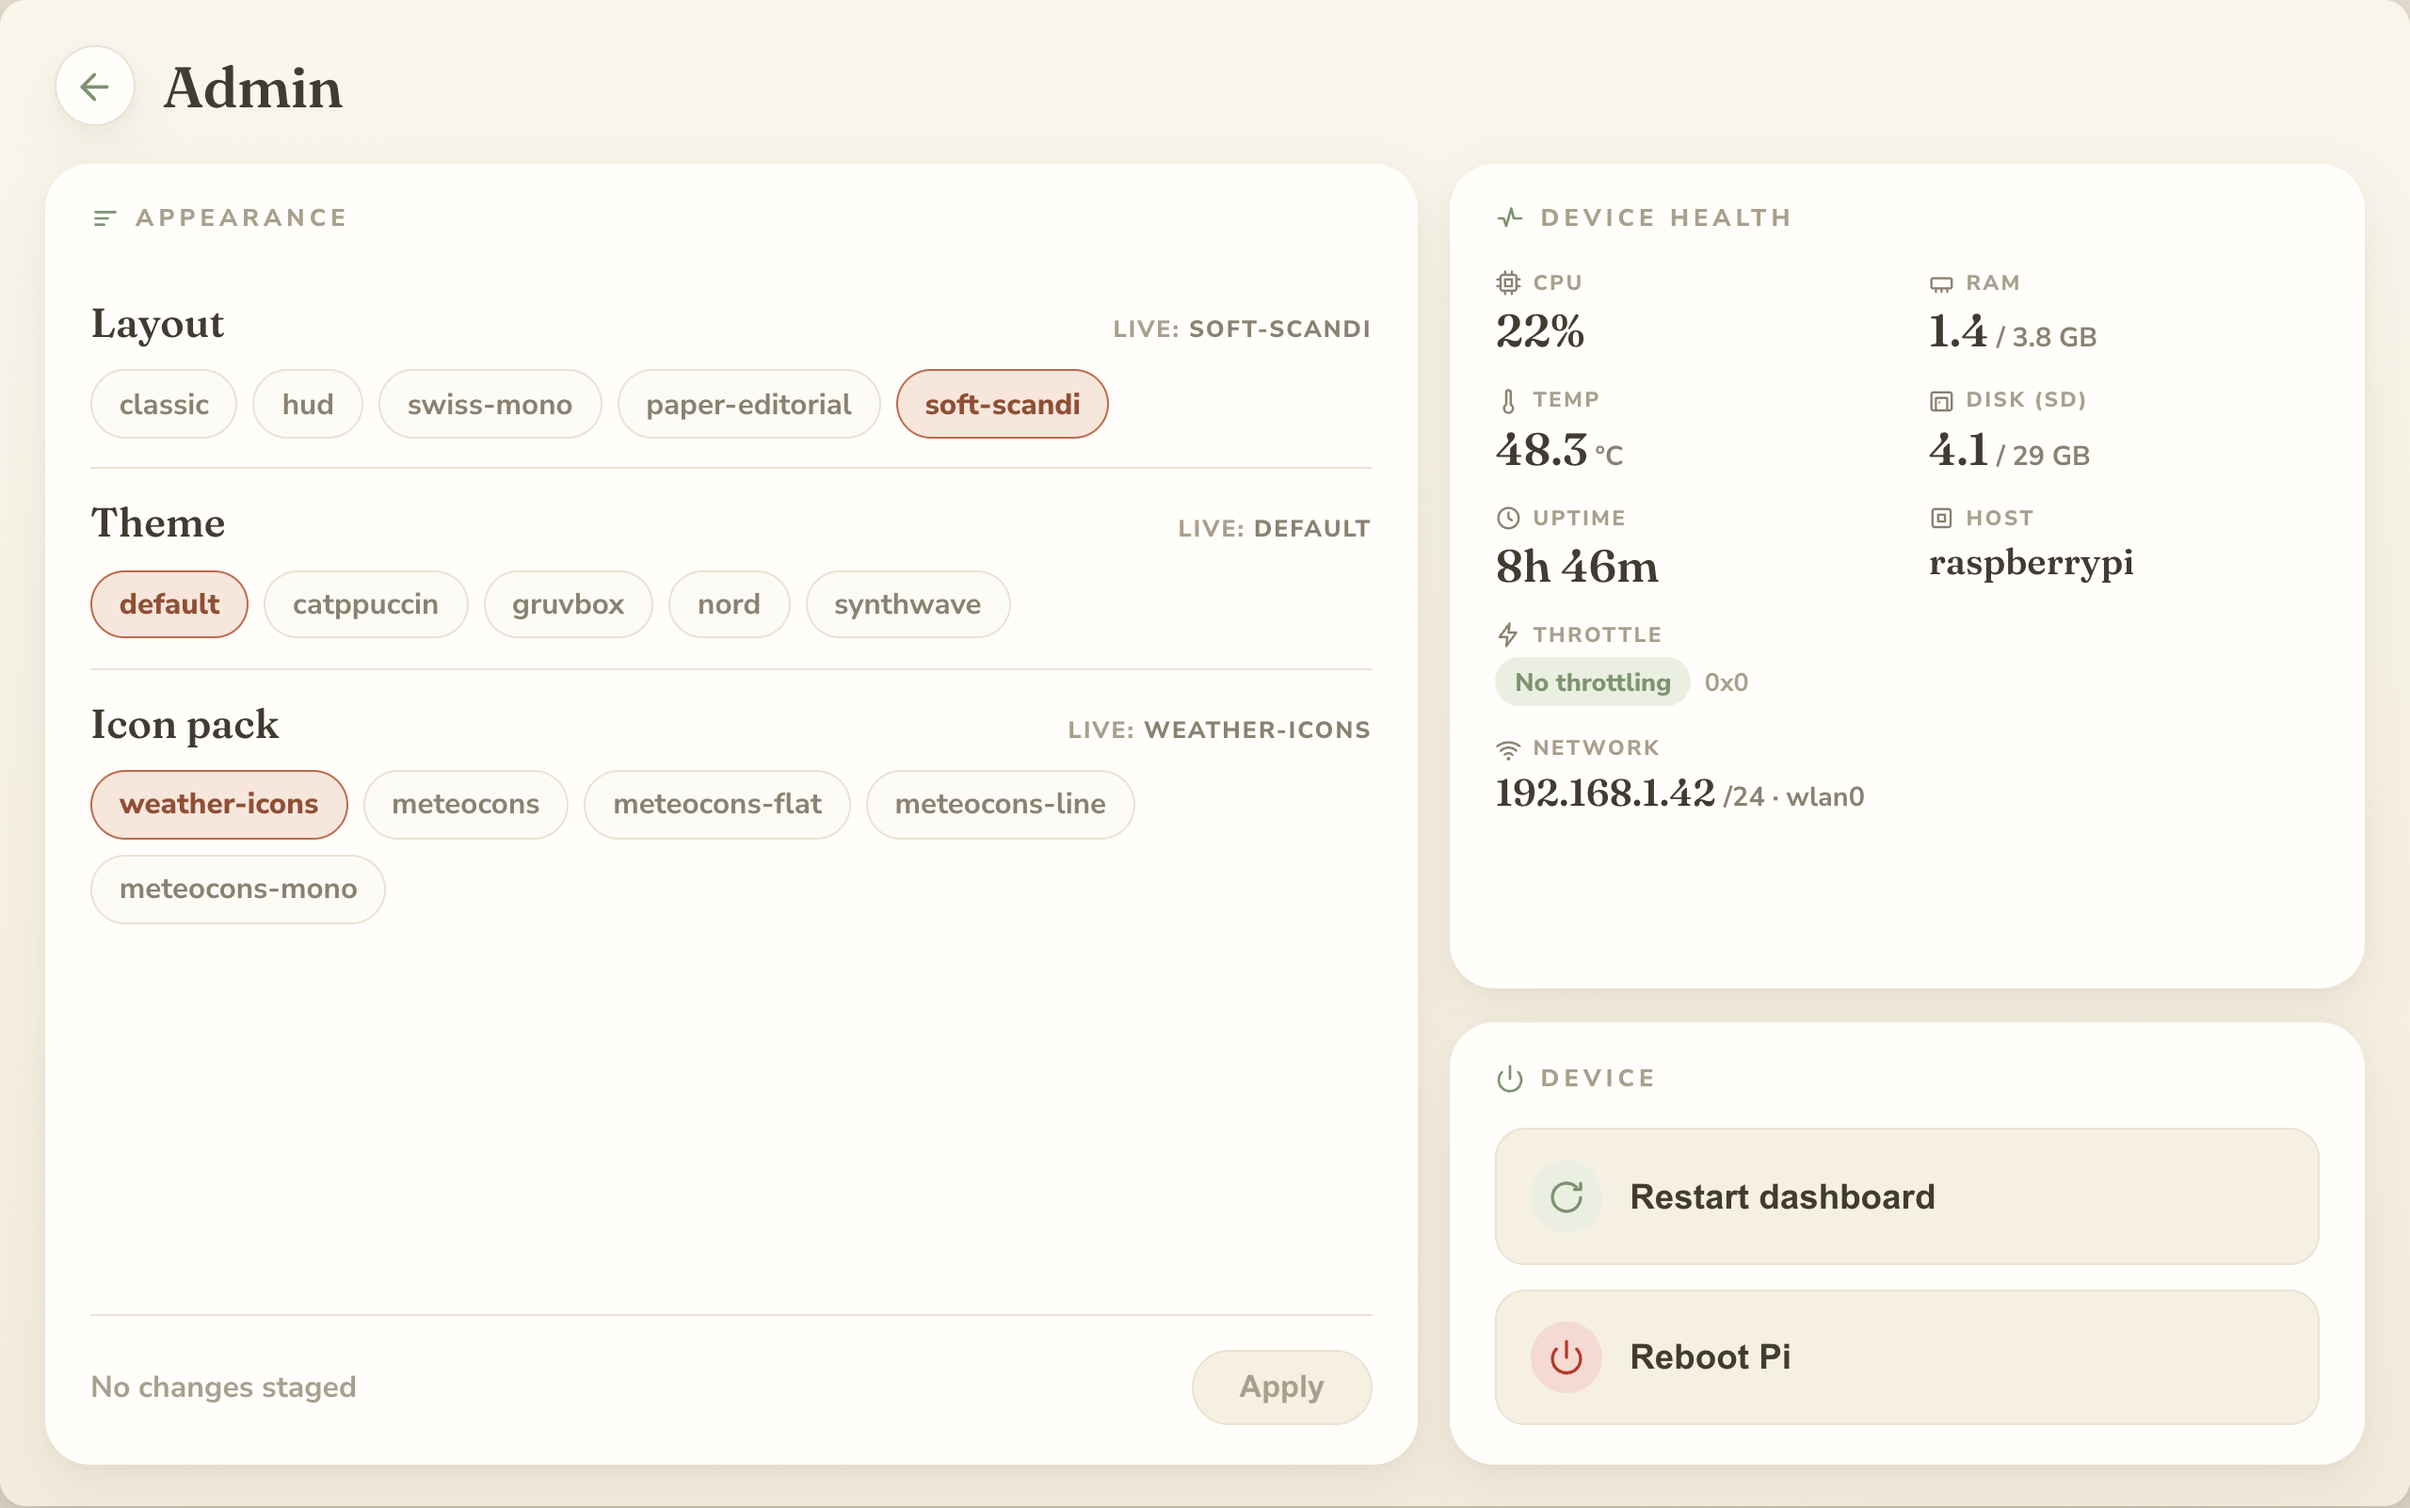
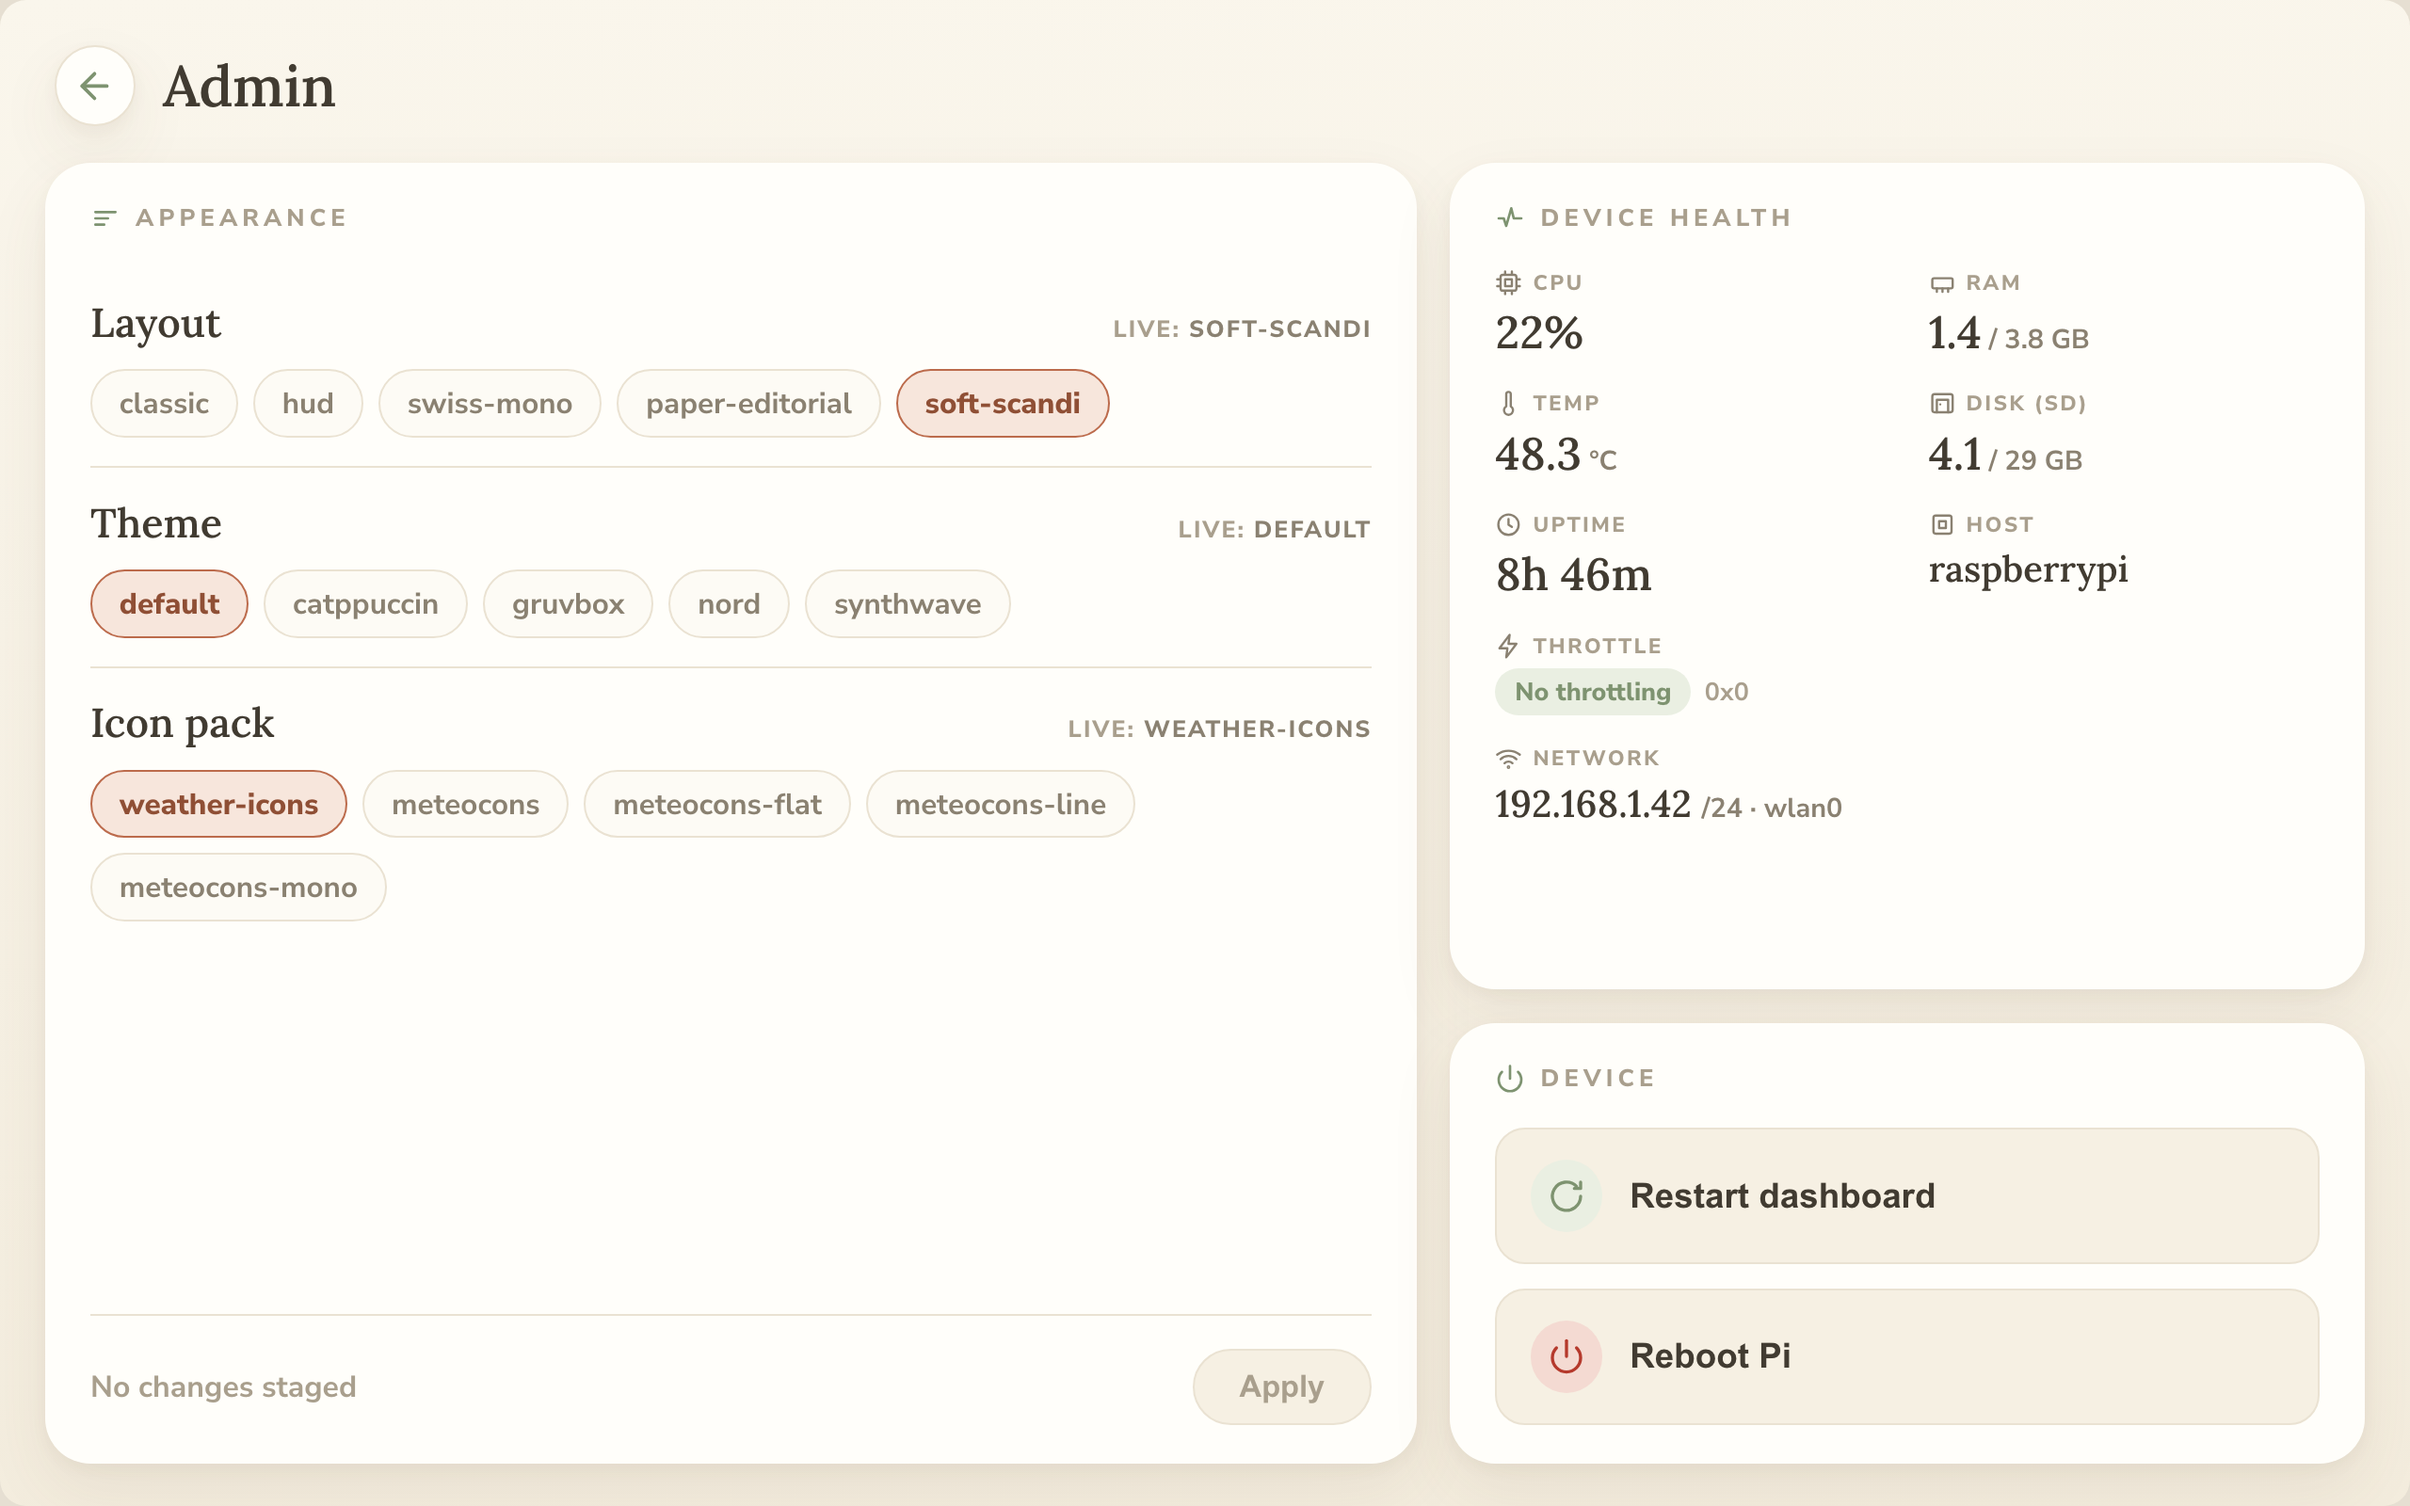
Fix soft-scandi design

diff --git a/design-mocks/admin-soft-scandi.html b/design-mocks/admin-soft-scandi.html
@@ -4,7 +4,7 @@
 <meta charset="utf-8">
 <meta name="viewport" content="width=device-width, initial-scale=1">
 <title>pi-dashboard admin mock — soft scandi (warm Scandinavian light mode)</title>
-<!-- Admin screen in the soft-scandi idiom: warm linen canvas, Fraunces display
+<!-- Admin screen in the soft-scandi idiom: warm linen canvas, Lora display
      type, muted sage / terracotta / dusty-blue palette, soft rounded cards —
      matched to its dashboard sibling (soft-scandi.html). Theme-aware AND
      layout-skinned per the 2026-10-04 reversal. Fixture = CONTENT.md Admin section.
@@ -13,7 +13,7 @@
      Storyboard: five framed states; frame 1 (resting/nominal) is the gallery view. -->
 <link rel="preconnect" href="https://fonts.googleapis.com">
 <link rel="preconnect" href="https://fonts.gstatic.com" crossorigin>
-<link href="https://fonts.googleapis.com/css2?family=Fraunces:ital,opsz,wght@0,9..144,400..700;1,9..144,400..700&family=Nunito+Sans:ital,opsz,wght@0,6..12,400..800;1,6..12,400..800&display=swap" rel="stylesheet">
+<link href="https://fonts.googleapis.com/css2?family=Lora:ital,wght@0,400..700;1,400..700&family=Nunito+Sans:ital,opsz,wght@0,6..12,400..800;1,6..12,400..800&display=swap" rel="stylesheet">
 <style>
   :root {
     /* warm linen base (shared with soft-scandi.html) */
@@ -53,7 +53,7 @@
     gap: 2.2rem; padding: 40px 20px 72px;
   }
   .page-head { max-width: 80rem; width: 100%; }
-  .page-head h1 { font-family: 'Fraunces', serif; font-size: 22px; font-weight: 560; color: #2f2a22; }
+  .page-head h1 { font-family: 'Lora', serif; font-size: 22px; font-weight: 560; color: #2f2a22; }
   .page-head p { color: #6f675a; font-size: 13.5px; margin-top: 4px; max-width: 72ch; }
 
   /* storyboard frame chrome (mock-only, outside the 1280×800 canvas) */
@@ -87,7 +87,7 @@
   .back:hover { border-color: var(--sage); }
   .back svg { width: 1.4rem; height: 1.4rem; stroke: var(--sage); fill: none;
     stroke-width: 2; stroke-linecap: round; stroke-linejoin: round; display: block; }
-  .ahead .title { font-family: 'Fraunces', serif; font-size: 1.9rem; font-weight: 560; letter-spacing: -0.01em; }
+  .ahead .title { font-family: 'Lora', serif; font-size: 1.9rem; font-weight: 560; letter-spacing: -0.01em; }
 
   /* ---- body grid: config (left) + right column ---- */
   .abody { display: grid; grid-template-columns: 1.5fr 1fr; gap: 1.1rem; min-height: 0; }
@@ -97,7 +97,7 @@
   .knob { padding: 0.95rem 0; }
   .knob + .knob { border-top: 1px solid var(--hairline); }
   .knob-top { display: flex; align-items: baseline; justify-content: space-between; margin-bottom: 0.7rem; }
-  .knob-name { font-family: 'Fraunces', serif; font-size: 1.35rem; font-weight: 560; }
+  .knob-name { font-family: 'Lora', serif; font-size: 1.35rem; font-weight: 560; }
   .knob-live { color: var(--faint); font-size: 0.78rem; font-weight: 800; letter-spacing: 0.08em; text-transform: uppercase; }
   .knob-live b { color: var(--muted); font-weight: 800; }
   .opts { display: flex; flex-wrap: wrap; gap: 0.5rem; }
@@ -129,7 +129,8 @@
     font-size: 0.7rem; font-weight: 800; letter-spacing: 0.1em; text-transform: uppercase; margin-bottom: 0.2rem; }
   .metric .k svg { width: 0.9rem; height: 0.9rem; stroke: var(--muted); fill: none;
     stroke-width: 2; stroke-linecap: round; stroke-linejoin: round; }
-  .metric .v { font-family: 'Fraunces', serif; font-size: 1.5rem; font-weight: 560; font-variant-numeric: tabular-nums; }
+  /* proportional: Lora's tabular figures are very wide and space digits out */
+  .metric .v { font-family: 'Lora', serif; font-size: 1.5rem; font-weight: 560; font-variant-numeric: proportional-nums; }
   .metric .v small { font-family: 'Nunito Sans', sans-serif; font-size: 0.9rem; color: var(--muted); font-weight: 700; }
   .metric.wide { grid-column: 1 / -1; }
   .metric.is-warn .v { color: var(--alarm); }
@@ -167,7 +168,7 @@
     align-items: center; justify-content: center; margin-bottom: 1rem; background: var(--alarm-milk); }
   .dialog .dico svg { width: 1.6rem; height: 1.6rem; stroke: var(--alarm); fill: none;
     stroke-width: 2; stroke-linecap: round; stroke-linejoin: round; }
-  .dialog h3 { font-family: 'Fraunces', serif; font-size: 1.6rem; font-weight: 580; margin-bottom: 0.5rem; }
+  .dialog h3 { font-family: 'Lora', serif; font-size: 1.6rem; font-weight: 580; margin-bottom: 0.5rem; }
   .dialog p { color: var(--muted); font-size: 1.05rem; font-weight: 600; line-height: 1.45; }
   .dialog .btns { display: flex; justify-content: flex-end; gap: 0.7rem; margin-top: 1.6rem; }
   .dbtn { font-size: 1.02rem; font-weight: 800; padding: 0.6rem 1.4rem; border-radius: 999px; cursor: pointer; }
@@ -180,7 +181,7 @@
   .terminal { display: flex; flex-direction: column; align-items: center; gap: 1.2rem; text-align: center; }
   .terminal .spin { width: 3.4rem; height: 3.4rem; border-radius: 50%;
     border: 3px solid rgba(255, 253, 248, 0.25); border-top-color: #FFFDF8; }
-  .terminal .big { font-family: 'Fraunces', serif; font-size: 2.1rem; font-weight: 580; color: #FFFDF8; }
+  .terminal .big { font-family: 'Lora', serif; font-size: 2.1rem; font-weight: 580; color: #FFFDF8; }
   .terminal .small { color: rgba(255, 253, 248, 0.82); font-size: 1.15rem; font-weight: 600; }
 </style>
 </head>

diff --git a/design-mocks/soft-scandi.html b/design-mocks/soft-scandi.html
@@ -6,7 +6,7 @@
 <title>Soft Scandi — Dashboard Mock</title>
 <link rel="preconnect" href="https://fonts.googleapis.com">
 <link rel="preconnect" href="https://fonts.gstatic.com" crossorigin>
-<link href="https://fonts.googleapis.com/css2?family=Fraunces:ital,opsz,wght@0,9..144,400..700;1,9..144,400..700&family=Nunito+Sans:ital,opsz,wght@0,6..12,400..800;1,6..12,400..800&display=swap" rel="stylesheet">
+<link href="https://fonts.googleapis.com/css2?family=Lora:ital,wght@0,400..700;1,400..700&family=Nunito+Sans:ital,opsz,wght@0,6..12,400..800;1,6..12,400..800&display=swap" rel="stylesheet">
 <style>
   :root {
     /* Warm linen base */
@@ -72,16 +72,15 @@
   /* Clock */
   .clock-block { padding: 4px 6px 0; }
   .clock {
-    font-family: 'Fraunces', serif;
+    font-family: 'Lora', serif;
     font-weight: 550;
-    font-variation-settings: 'opsz' 120;
     font-size: 92px;
     line-height: 0.95;
     letter-spacing: -0.015em;
     color: var(--ink);
   }
   .clock .ampm {
-    font-family: 'Fraunces', serif;
+    font-family: 'Lora', serif;
     font-style: italic;
     font-weight: 480;
     font-size: 34px;
@@ -124,9 +123,8 @@
   .hero-icon { flex: 0 0 auto; width: 128px; height: 114px; }
   .hero-temp-block { flex: 1; }
   .hero-temp {
-    font-family: 'Fraunces', serif;
+    font-family: 'Lora', serif;
     font-weight: 560;
-    font-variation-settings: 'opsz' 130;
     font-size: 94px;
     line-height: 0.95;
     letter-spacing: -0.02em;
@@ -192,7 +190,7 @@
   .fc-rain   { background: #EBF0F3; }
   .fc-partly { background: #EBF0E3; }
   .fc-day {
-    font-family: 'Fraunces', serif;
+    font-family: 'Lora', serif;
     font-weight: 560;
     font-size: 18px;
     color: var(--ink);
@@ -206,7 +204,7 @@
   .fc-main svg { width: 52px; height: 46px; flex: 0 0 auto; }
   .fc-temps { display: flex; align-items: baseline; gap: 8px; }
   .fc-hi {
-    font-family: 'Fraunces', serif;
+    font-family: 'Lora', serif;
     font-weight: 580;
     font-size: 27px;
     color: var(--ink);
@@ -274,7 +272,7 @@
   .dot-sage  { background: var(--sage); }
   .dot-dusty { background: var(--dusty); }
   .day-name {
-    font-family: 'Fraunces', serif;
+    font-family: 'Lora', serif;
     font-weight: 580;
     font-size: 26px;
     color: var(--ink);

diff --git a/design-mocks/index.html b/design-mocks/index.html
@@ -60,7 +60,7 @@
       <a href="soft-scandi.html"><img src="soft-scandi.png" alt="Soft Scandinavian mock" /></a>
       <div class="meta">
         <h2><a href="soft-scandi.html">soft-scandi</a></h2>
-        <p>Linen canvas, Fraunces display type, muted sage / terracotta / dusty-blue palette.</p>
+        <p>Linen canvas, Lora display type, muted sage / terracotta / dusty-blue palette.</p>
       </div>
     </div>
   </div>
@@ -100,7 +100,7 @@
       <a href="admin-soft-scandi.html"><img src="admin-soft-scandi.png" alt="Admin screen — warm Scandinavian" /></a>
       <div class="meta">
         <h2><a href="admin-soft-scandi.html">admin-soft-scandi</a></h2>
-        <p>Linen, soft pills, Fraunces headings; terracotta live, dusty-blue staged, rust alarm.</p>
+        <p>Linen, soft pills, Lora headings; terracotta live, dusty-blue staged, rust alarm.</p>
       </div>
     </div>
   </div>
